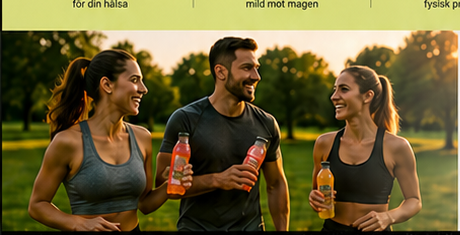
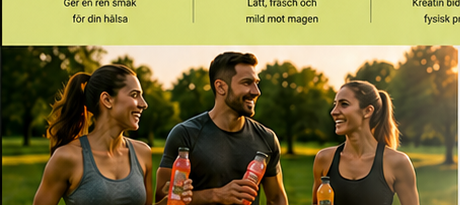
Add files via upload

diff --git a/index.html b/index.html
@@ -1,0 +1,33 @@
+<!doctype html>
+<html lang="sv">
+<head>
+  <meta charset="utf-8" />
+  <meta name="viewport" content="width=device-width, initial-scale=1" />
+  <title>Drinkblaster – Vitamin Punch</title>
+  <style>
+    :root{--green:#78bd00;--dark:#080808;--red:#e30613;--soft:#f7f3e9;--text:#111}
+    *{box-sizing:border-box}html{scroll-behavior:smooth}body{margin:0;font-family:Arial,Helvetica,sans-serif;color:var(--text);background:#fff}a{text-decoration:none;color:inherit}img{display:block;max-width:100%}.wrap{width:min(1120px,calc(100% - 40px));margin:auto}
+    header{position:sticky;top:0;z-index:50;background:#fff;border-bottom:1px solid #ddd} .nav{height:66px;display:flex;align-items:center;justify-content:space-between;gap:24px}.brand{display:flex;align-items:center;gap:10px;font-weight:900;font-size:27px;font-style:italic;letter-spacing:-1px}.bolt{width:36px;height:36px;border-radius:50%;background:#101010;color:#9bd800;display:grid;place-items:center;font-size:24px}.menu{display:flex;gap:33px;text-transform:uppercase;font-weight:900;font-size:13px}.menu a:hover{color:var(--green)}.btn{display:inline-flex;align-items:center;justify-content:center;border-radius:999px;background:var(--green);color:#fff;padding:14px 27px;font-weight:900;text-transform:uppercase;box-shadow:0 12px 24px rgba(120,189,0,.25)}.btn:hover{filter:brightness(.94);transform:translateY(-1px)}
+    .hero{overflow:hidden;background:linear-gradient(90deg,#fff 0 48%,#dfeecc 48%);min-height:720px}.hero-grid{display:grid;grid-template-columns:42% 58%;align-items:center;gap:22px;min-height:720px}.hero h1{font-size:clamp(62px,9vw,118px);line-height:.82;letter-spacing:-5px;margin:0;text-transform:uppercase;font-style:italic}.hero h1 span{color:var(--red)}.hero h2{font-size:29px;line-height:1.12;margin:20px 0 15px;text-transform:uppercase}.hero p{font-size:16px;line-height:1.55;margin:0 0 24px}.benefits{display:flex;gap:25px;margin:25px 0}.benefit{text-align:center;font-size:11px;font-weight:900;text-transform:uppercase}.benefit i{display:grid;place-items:center;margin:auto auto 9px;width:56px;height:56px;border:3px solid var(--green);border-radius:50%;color:var(--green);font-size:25px}.hero-img{position:relative}.hero-img img{width:100%;filter:drop-shadow(0 24px 24px rgba(0,0,0,.18))}.badge{position:absolute;right:4%;top:11%;width:114px;height:114px;border-radius:50%;background:#050505;color:#fff;display:grid;place-items:center;text-align:center;font-weight:900;text-transform:uppercase;line-height:1.18;font-size:16px}.badge:after{content:"";width:44px;height:5px;background:var(--green);position:absolute;bottom:23px;border-radius:4px}
+    .blackbar{background:#060606;color:#fff;padding:46px 0}.black-grid{display:grid;grid-template-columns:1.2fr repeat(3,1fr);gap:40px;align-items:center}.blackbar h2{margin:0;text-transform:uppercase;font-size:24px;line-height:1.05}.blackbar h2 span{color:var(--green)}.blackbar p{color:#ddd;font-size:14px;line-height:1.5}.feature{display:flex;gap:13px;align-items:center;text-transform:uppercase;font-weight:900;font-size:15px}.feature b{font-size:34px;color:var(--green)}
+    section{padding:70px 0}.split{display:grid;grid-template-columns:40% 60%;border-bottom:1px solid #ddd}.ginger{padding:42px;background:#fff}.ginger h2,.section-title h2{font-size:34px;line-height:1;margin:0 0 16px;text-transform:uppercase}.ginger h2 span,.section-title span{color:var(--green)}.ginger p,.section-title p{font-size:15px;line-height:1.6;color:#333}.ginger img{margin-top:18px;width:82%}.fruits{padding:42px;background:#fbfaf6}.fruits img{width:100%;border-radius:10px}.section-title{text-align:center;max-width:760px;margin:0 auto 34px}.section-title h2{font-size:52px;letter-spacing:-1px}
+    .benefit-strip{background:#e2f49b;padding:34px 0}.strip-grid{display:grid;grid-template-columns:repeat(4,1fr);gap:24px}.strip{text-align:center;border-right:1px solid rgba(0,0,0,.17);padding:0 12px}.strip:last-child{border-right:0}.strip .ico{font-size:33px;margin-bottom:8px}.strip h3{font-size:13px;text-transform:uppercase;margin:0 0 7px}.strip p{font-size:13px;line-height:1.35;margin:0}
+    .healthy{display:grid;grid-template-columns:45% 55%;align-items:stretch}.people{background:#222}.people img{width:100%;height:100%;object-fit:cover}.health-text{display:grid;grid-template-columns:1fr 1fr;gap:25px;padding:45px;background:#fff;align-items:center}.health-text h2{font-size:38px;line-height:1;margin:0 0 14px;text-transform:uppercase}.health-text h2 span{color:var(--green)}.health-text p{line-height:1.5;color:#333}.bottles img{width:100%}.small-icons{display:flex;gap:18px;font-size:11px;text-transform:uppercase;font-weight:900;margin-top:18px}.small-icons div{text-align:center}
+    .products{background:#f7f7ef}.cards{display:grid;grid-template-columns:repeat(3,1fr);gap:24px}.card{background:#fff;border-radius:22px;padding:22px;box-shadow:0 18px 42px rgba(0,0,0,.08);text-align:center}.card img{height:230px;width:100%;object-fit:contain;margin-bottom:12px}.card h3{text-transform:uppercase;margin:8px 0}.card p{font-size:14px;color:#555;line-height:1.45}.contact{background:#080808;color:#fff}.contact p{color:#ddd}.form{display:grid;gap:14px;max-width:650px;margin:auto}.form input,.form textarea{font:inherit;border:0;border-radius:15px;padding:17px}.form textarea{min-height:130px}footer{background:#000;color:#ddd;padding:35px 0;text-align:center}.footer-logo{font-weight:900;font-style:italic;font-size:28px;color:#fff;margin-bottom:12px}.mobile{display:none}
+    @media(max-width:850px){.menu{display:none}.hero{background:#fff}.hero-grid,.black-grid,.split,.healthy,.health-text,.cards{grid-template-columns:1fr}.hero-grid{padding:35px 0;min-height:auto}.benefits{flex-wrap:wrap}.strip-grid{grid-template-columns:1fr 1fr}.hero h1{letter-spacing:-3px}.badge{width:88px;height:88px;font-size:12px}.black-grid{gap:18px}.healthy{display:block}.people img{height:auto}.desktop-only{display:none}.mobile{display:block}}
+  </style>
+</head>
+<body>
+<header id="hem"><div class="wrap nav"><a class="brand" href="#hem"><span class="bolt">⚡</span>DRINKBLASTER</a><nav class="menu"><a href="#hem">Hem</a><a href="#produkter">Produkter</a><a href="#om-oss">Om oss</a><a href="#ingredienser">Ingredienser</a><a href="#kontakt">Kontakt</a></nav><a class="btn" href="#kop-nu">Köp nu</a></div></header>
+<main>
+<section class="hero"><div class="wrap hero-grid"><div><h1>Vitamin<br><span>Punch</span></h1><h2>Smaken av hälsa<br>Kraften av en knytnäve</h2><p>En fruktig hälsodryck med kiwi, lime, citron, jordgubbar och ingefära. Utan tillsatt socker, utan kolsyra och med kreatin.</p><div class="benefits"><div class="benefit"><i>◇</i>Inget tillsatt<br>socker</div><div class="benefit"><i>○</i>Ingen<br>kolsyra</div><div class="benefit"><i>ϟ</i>Med<br>kreatin</div></div><a class="btn" href="#ingredienser">Upptäck smaken →</a></div><div class="hero-img"><img src="assets/hero-splash.png" alt="Vitamin Punch flaska med splash, grönt äpple, citrus, jordgubbar och ingefära"><div class="badge">Frisk<br>naturlig<br>power</div></div></div></section>
+<section class="blackbar"><div class="wrap black-grid"><div><h2><span>Drinkblaster</span><br>Nästa generation drycker</h2><p>Moderna drycker för en aktiv och hälsomedveten livsstil. Fokus på smak, funktion och rena ingredienser.</p></div><div class="feature"><b>♧</b>Naturliga<br>ingredienser</div><div class="feature"><b>♡</b>För en aktiv<br>livsstil</div><div class="feature"><b>◎</b>Ett smartare<br>val</div></div></section>
+<section id="ingredienser" class="split"><div class="ginger"><h2>Kraften i<br><span>ingefära</span></h2><p>Ingefära ger Vitamin Punch en unik karaktär med frisk och kryddig smak.</p><img src="assets/ginger.png" alt="Ingefära"></div><div class="fruits"><h2 class="desktop-only">Smakexplosion</h2><img src="assets/fruit-row.png" alt="Kiwi, lime, citron, jordgubbar, ingefära och grönt äpple på rad"></div></section>
+<section class="benefit-strip"><div class="wrap strip-grid"><div class="strip"><div class="ico">◇</div><h3>Inget tillsatt socker</h3><p>Ger en ren smak för din hälsa</p></div><div class="strip"><div class="ico">○</div><h3>Ingen kolsyra</h3><p>Lätt, fräsch och mild mot magen</p></div><div class="strip"><div class="ico">▱</div><h3>Med kreatin</h3><p>Kreatin bidrar till ökad fysisk prestation</p></div><div class="strip"><div class="ico">⬡</div><h3>Bra för magen</h3><p>Ingefära är känd för att vara snäll mot magen</p></div></div></section>
+<section id="om-oss" class="healthy"><div class="people"><img src="assets/people.png" alt="Människor som tränar och håller Drinkblaster drycker"></div><div class="health-text"><div><h2>För alla<br><span>hälsomedvetna</span></h2><p>Vitamin Punch är för dig som vill ha ett gott, uppfriskande och funktionellt alternativ i vardagen. Före träning, efter träning eller när som helst.</p><div class="small-icons"><div>Före träning</div><div>Efter träning</div><div>När som helst</div></div><a class="btn" href="#produkter">Se fler produkter →</a></div><div class="bottles"><img src="assets/bottles.png" alt="Drinkblaster flaskor"></div></div></section>
+<section id="produkter" class="products"><div class="wrap"><div class="section-title"><h2>Fler <span>produkter</span></h2><p>En riktig produktsektion med klickbara knappar. Byt enkelt länkarna till din butik när den är klar.</p></div><div class="cards"><article class="card"><img src="assets/hero-splash.png" alt="Vitamin Punch"><h3>Vitamin Punch</h3><p>Fruktig smak med citrus, bär, äpple och ingefära.</p><a class="btn" href="#kop-nu">Köp</a></article><article class="card"><img src="assets/bottles.png" alt="Fler flaskor"><h3>Citrus Charge</h3><p>Frisk citrusprofil för vardag och träning.</p><a class="btn" href="#kop-nu">Köp</a></article><article class="card"><img src="assets/fruit-row.png" alt="Smakexplosion"><h3>Green Punch</h3><p>Grönt äpple, lime och naturlig friskhet.</p><a class="btn" href="#kop-nu">Köp</a></article></div></div></section>
+<section id="kop-nu" class="blackbar"><div class="wrap"><h2>Redo att uppleva <span>smaken av hälsa?</span></h2><p>Drink it. Punch it.</p><a class="btn" href="mailto:info@drinkblaster.se?subject=Jag%20vill%20köpa%20Vitamin%20Punch">Köp Vitamin Punch →</a></div></section>
+<section id="kontakt" class="contact"><div class="wrap"><div class="section-title"><h2>Kontakt</h2><p>Skicka ett meddelande så kan sidan senare kopplas till riktig e-post, Shopify eller checkout.</p></div><form class="form" action="mailto:info@drinkblaster.se" method="post" enctype="text/plain"><input name="namn" placeholder="Namn" required><input name="email" type="email" placeholder="E-post" required><textarea name="meddelande" placeholder="Meddelande" required></textarea><button class="btn" type="submit">Skicka</button></form></div></section>
+</main><footer><div class="footer-logo">⚡ DRINKBLASTER</div><div>Utan tillsatt socker · Ingen kolsyra · Med kreatin · Med ingefära</div></footer>
+</body>
+</html>
